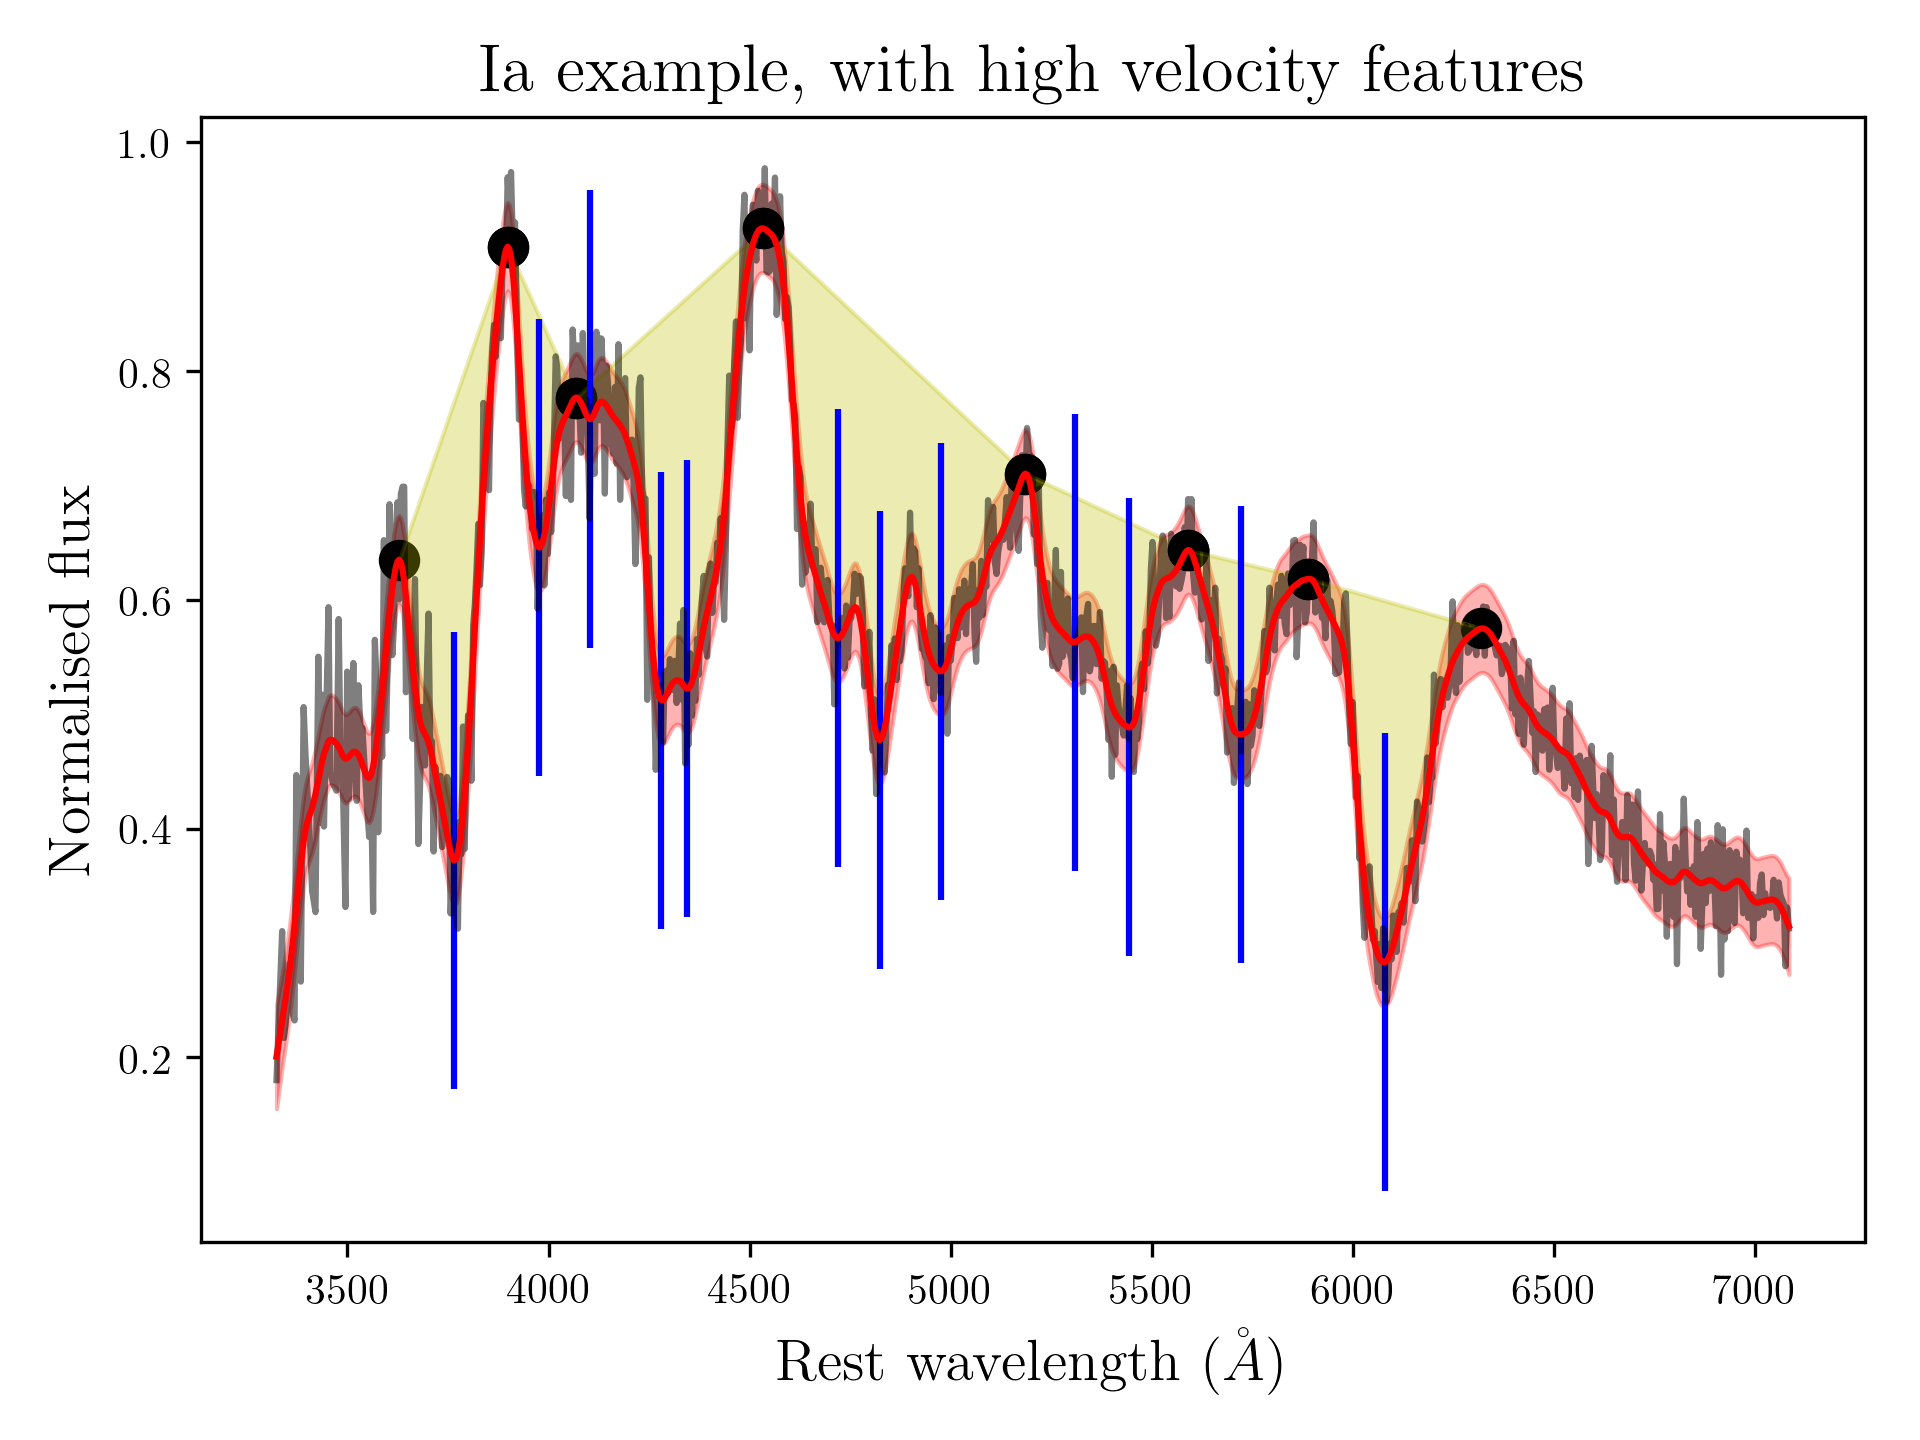
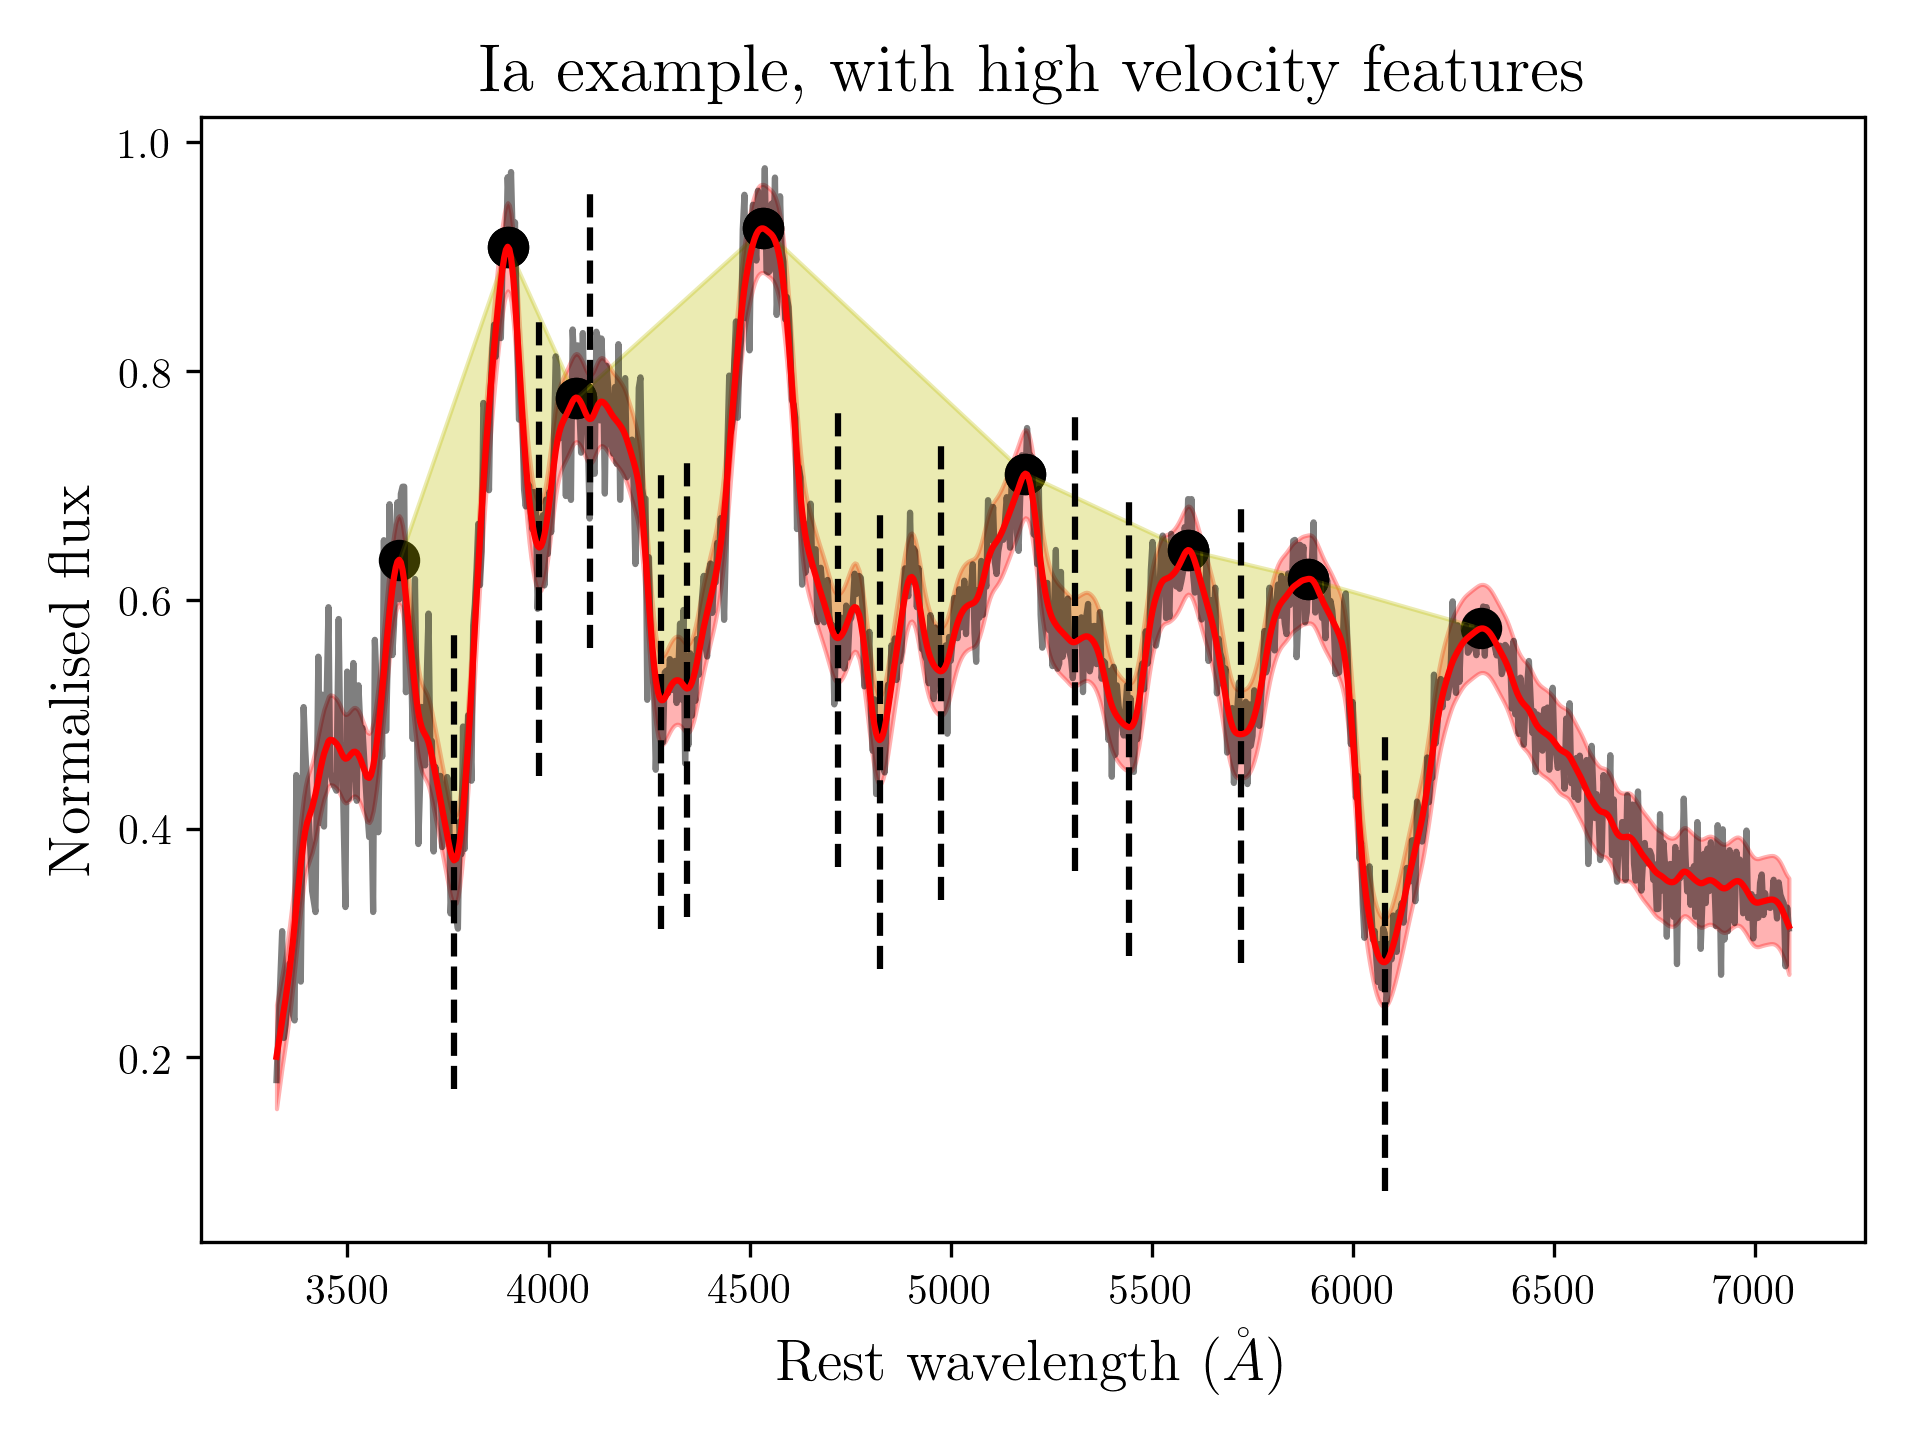
Bump version number

diff --git a/spextractor/spextractor.py b/spextractor/spextractor.py
@@ -147,7 +147,7 @@ def compute_speed(lambda_0, x_values, y_values, y_err_values, plot):
     velocity, velocity_err = _get_speed(lambda_m, lambda_m_err, lambda_0)
 
     if plot:
-        plt.axvline(lambda_m, color='b')
+        plt.axvline(lambda_m, color='k', linestyle='--')
 
     return velocity, velocity_err
 
@@ -203,7 +203,7 @@ def compute_speed_high_velocity(lambda_0, x_values, y_values, y_err_values, plot
 
         if plot:
             plt.vlines(lambda_m, y_values[min_pos] - 0.2,
-                       y_values[min_pos] + 0.2, color='b')
+                       y_values[min_pos] + 0.2, color='k', linestyle='--')
 
     return lambdas, lambdas_err, velocity, velocity_err, vel_hv, vel_hv_err
 

diff --git a/setup.py b/setup.py
@@ -2,7 +2,7 @@
 import setuptools
 from setuptools import setup
 
-setup(name='spextractor', version='0.1',
+setup(name='spextractor', version='0.2',
       description='Automatic extractor of spectral features through Gaussian Processes',
       url='https://github.com/sepap/spextractor',
       author='Seméli Papadogiannakis',
